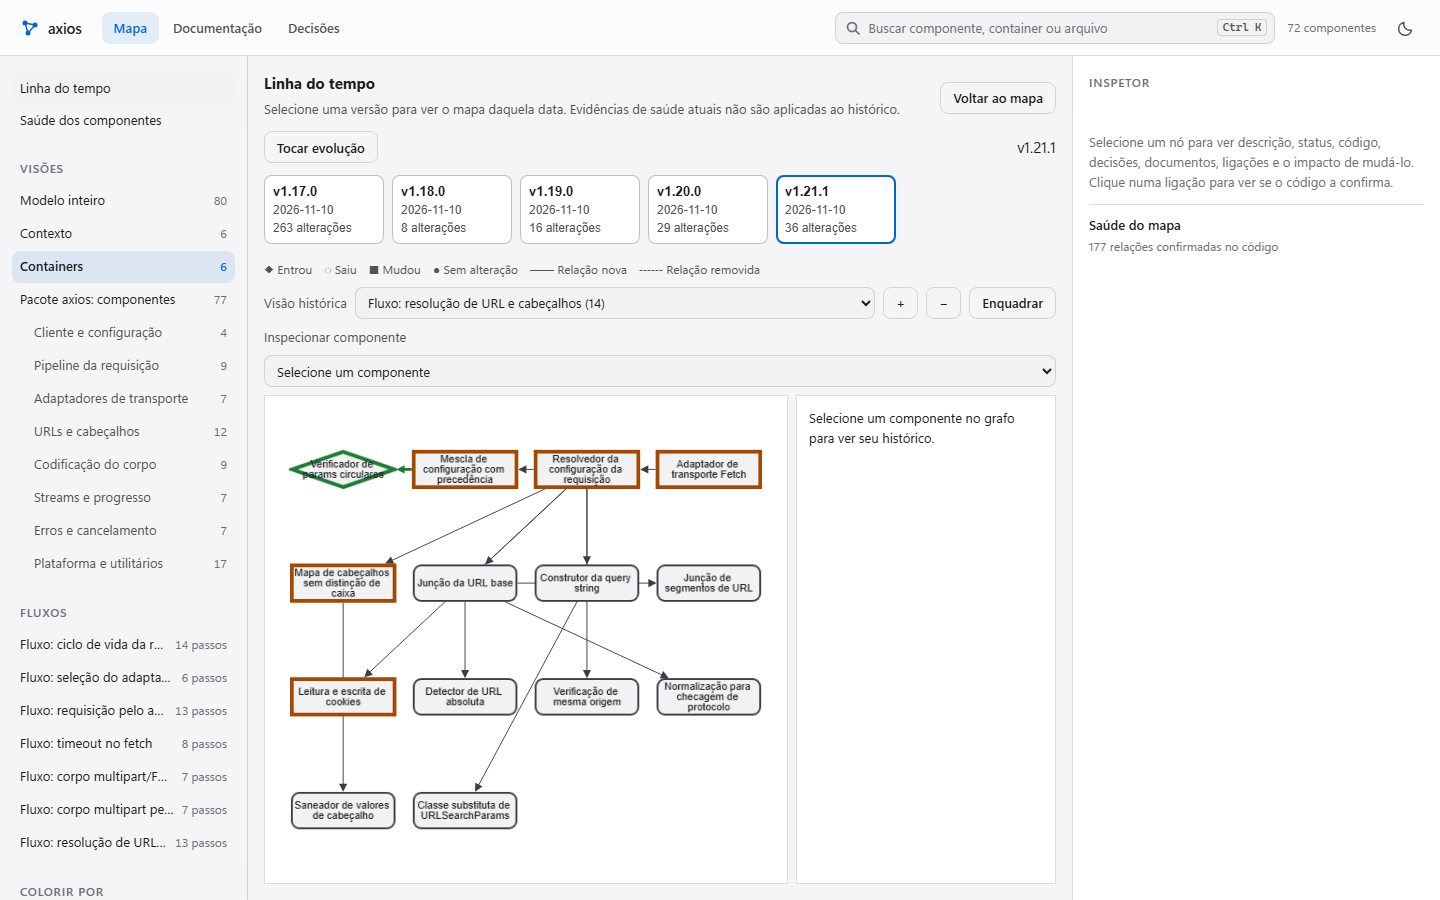
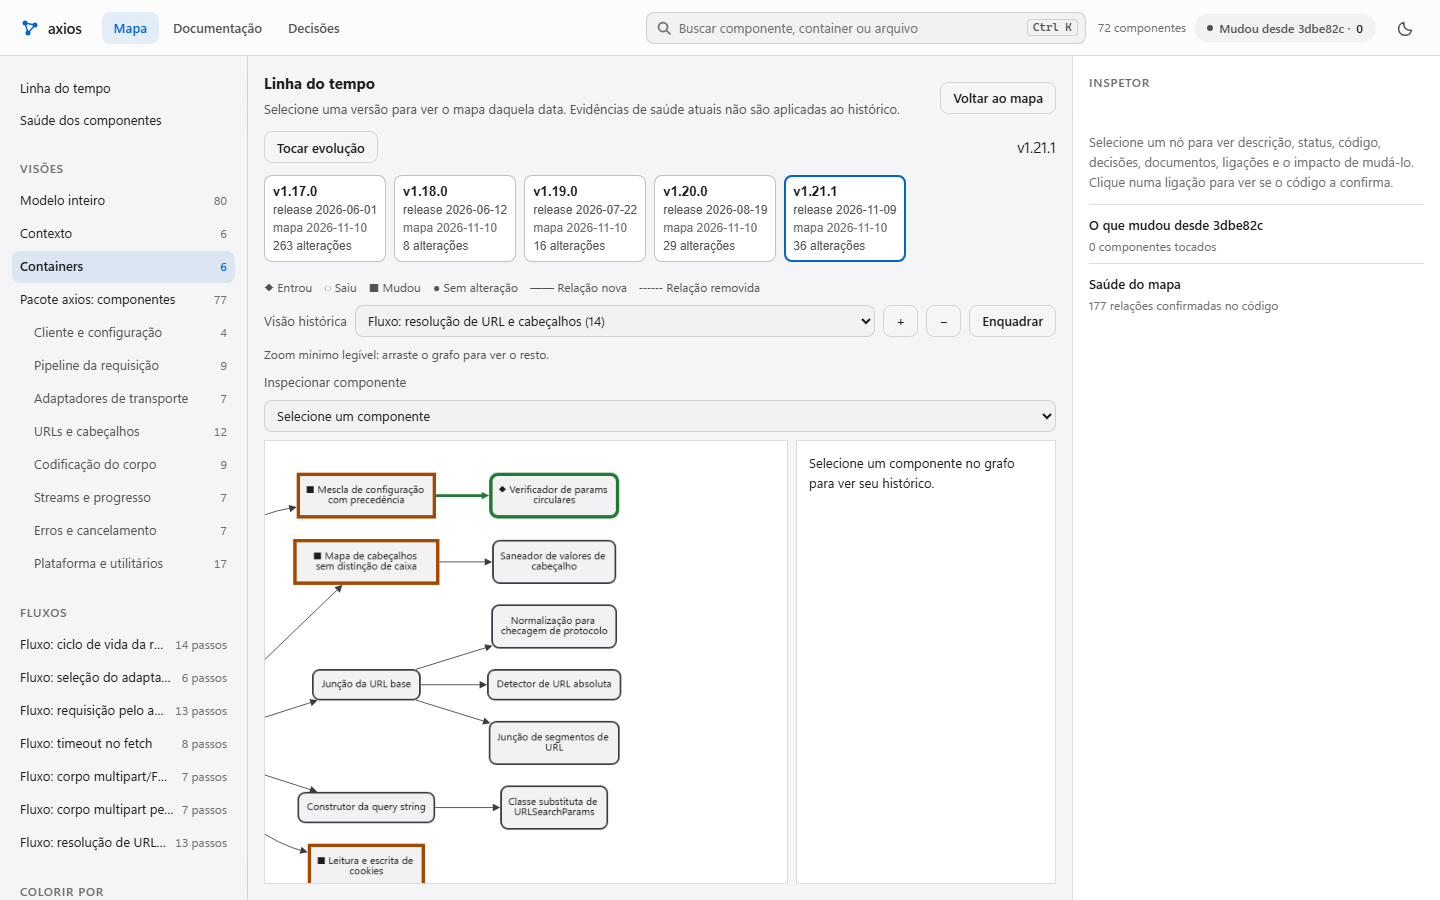
lodemap: pré-visualização de link na identidade da marca, tags no explorador e figuras recapturadas
- og:image novo (lodemap-og-2026-11.jpg) na landing, na demo e no explorador; o explorador não tinha tags de pré-visualização
- figuras da landing recapturadas da demo atual (linha do tempo com o layout novo)

diff --git a/lodemap/demo/explorador/index.html b/lodemap/demo/explorador/index.html
@@ -3,6 +3,15 @@
 <head>
 <meta charset="utf-8">
 <meta name="viewport" content="width=device-width, initial-scale=1">
+<meta name="description" content="Mapa navegável do axios: 72 componentes, 7 fluxos e cinco releases, gerado do código pelo Lodemap.">
+<meta property="og:type" content="website">
+<meta property="og:title" content="Mapa do axios: do axios.get() até a resposta, em 14 passos">
+<meta property="og:description" content="Cada passo da requisição, o que o código confirma e como mudou em cinco releases. Página estática, abre no celular.">
+<meta property="og:url" content="https://skarl007.github.io/lodemap/demo/explorador/">
+<meta property="og:image" content="https://skarl007.github.io/assets/lodemap/lodemap-og-2026-11.jpg">
+<meta property="og:image:width" content="1200">
+<meta property="og:image:height" content="630">
+<meta name="twitter:card" content="summary_large_image">
 <title>Explorador da arquitetura</title>
 <link rel="icon" href="data:,">
 <!-- Dados gerados por scripts/gerar_explorador.py (rode scripts/atualizar.ps1 depois de mudar o DSL).

diff --git a/lodemap/index.html b/lodemap/index.html
@@ -13,7 +13,7 @@
 <meta property="og:title" content="Lodemap: veja como o seu sistema funciona e como ele vem mudando">
 <meta property="og:description" content="Mapa C4 versionado no seu repositório, com fluxos animados, conferido por teste e mantido por scripts.">
 <meta property="og:url" content="https://skarl007.github.io/lodemap/">
-<meta property="og:image" content="https://skarl007.github.io/assets/lodemap/axios-og-pt.jpg">
+<meta property="og:image" content="https://skarl007.github.io/assets/lodemap/lodemap-og-2026-11.jpg">
 <meta name="twitter:card" content="summary_large_image">
 <link rel="icon" href="../assets/favicon.svg" type="image/svg+xml">
 <link rel="preconnect" href="https://fonts.googleapis.com">

diff --git a/lodemap/demo/index.html b/lodemap/demo/index.html
@@ -8,7 +8,7 @@
 <link rel="canonical" href="https://skarl007.github.io/lodemap/demo/">
 <meta property="og:title" content="Demo Lodemap: arquitetura do axios">
 <meta property="og:description" content="Cinco releases reais do axios, de v1.17.0 a v1.21.1, num mapa navegável.">
-<meta property="og:image" content="https://skarl007.github.io/assets/lodemap/axios-og-pt.jpg">
+<meta property="og:image" content="https://skarl007.github.io/assets/lodemap/lodemap-og-2026-11.jpg">
 <script>
 (function () {
   try {
